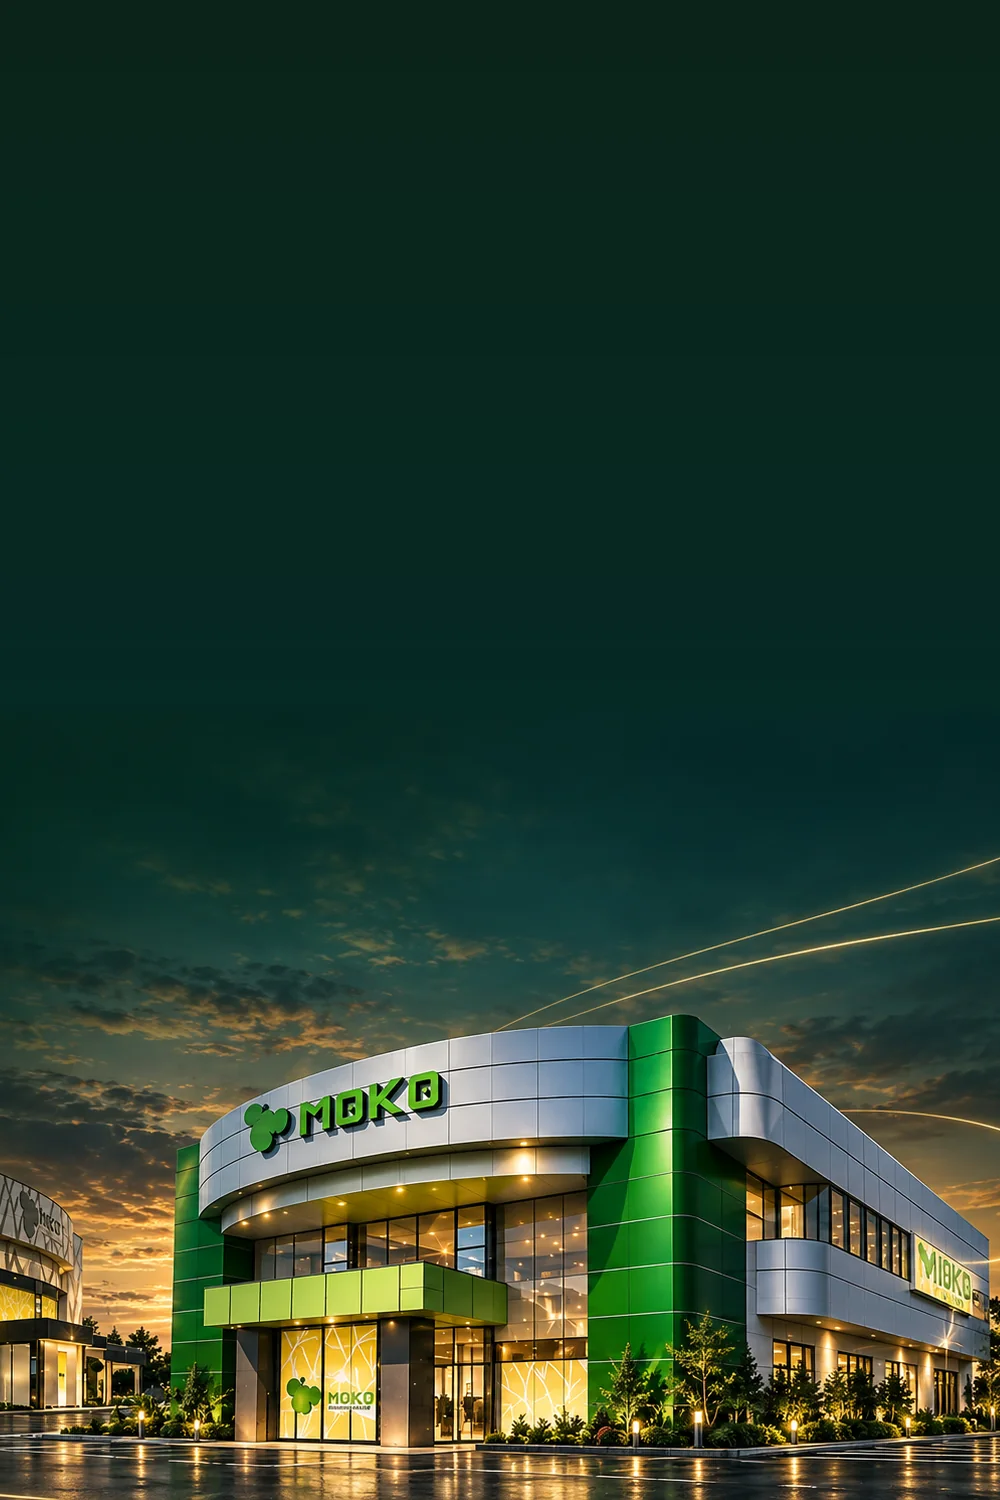
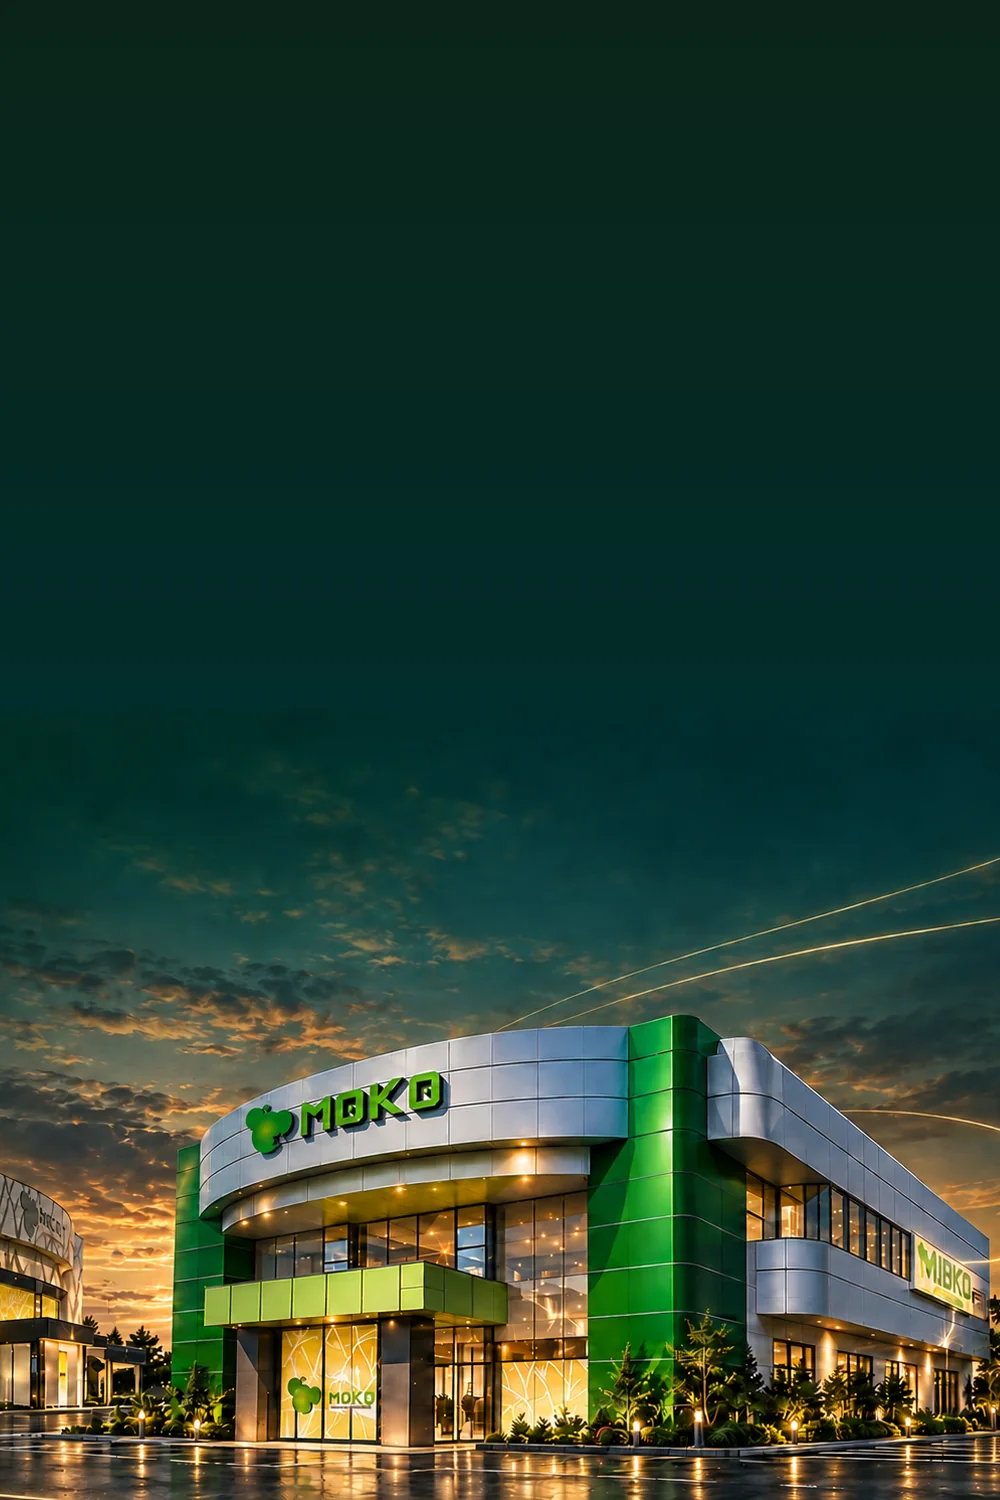
feat: トップのキービジュアルを文字なし版（2店舗の夜景）に変更しHTML見出しを重ねる構成に
- PC: 画像を比率のままヘッダー下に全体表示し、左側の空に PLAY WITH TRUST の見出しを重ねる（薄い暗色グラデーション付き）
- スマホ用の縦長版も同じ画像から再生成
- 不要になった文字入り画像を削除、プリロード先を更新

diff --git a/assets/css/theme.css b/assets/css/theme.css
@@ -471,7 +471,7 @@ body {
 /* ---------- Top hero ---------- */
 
 .hero {
-    /* 2026-09: 文字入りキービジュアル（PLAY WITH TRUST）を画像のまま表示。
+    /* 2026-09-25: 文字なしのキービジュアル（2店舗の夜景）に変更。見出しはHTMLで左側の空に重ねる。
        画像比率 1994:789 に合わせ、固定ヘッダーの下に全体を見せる */
     height: auto;
     aspect-ratio: 1994 / 789;
@@ -479,26 +479,14 @@ body {
     max-height: 780px;
     margin-top: var(--header-height);
     justify-content: flex-start;
+    align-items: flex-start;
     text-align: left;
     background:
-        url('/assets/img/hero-play-with-trust.webp') left center / cover no-repeat,
+        linear-gradient(100deg, rgba(11, 36, 24, 0.6) 0%, rgba(11, 36, 24, 0.3) 35%, rgba(11, 36, 24, 0) 60%),
+        url('/assets/img/hero-moko-stores.webp') left center / cover no-repeat,
         var(--emerald-deep);
-    padding: 0;
-}
-
-/* デスクトップは画像に文字が入っているため、見出しは読み上げ・SEO用に視覚的に非表示 */
-@media (min-width: 769px) {
-    .hero-content {
-        position: absolute;
-        width: 1px;
-        height: 1px;
-        margin: -1px;
-        padding: 0;
-        overflow: hidden;
-        clip: rect(0 0 0 0);
-        clip-path: inset(50%);
-        white-space: nowrap;
-    }
+    padding: 70px 30px 0;
+    padding-left: max(30px, calc((100% - 1280px) / 2 + 30px));
 }
 
 .hero::before,

diff --git a/index.html b/index.html
@@ -16,7 +16,7 @@
     <link rel="stylesheet" href="/assets/css/style.css">
     <link rel="stylesheet" href="/assets/css/pages.css">
     <link rel="stylesheet" href="/assets/css/theme.css">
-    <link rel="preload" as="image" href="/assets/img/hero-play-with-trust.webp" fetchpriority="high">
+    <link rel="preload" as="image" href="/assets/img/hero-moko-stores.webp" fetchpriority="high">
     <link rel="icon" href="/favicon.ico" sizes="48x48">
     <link rel="icon" type="image/png" href="/assets/img/favicon-96.png" sizes="96x96">
     <link rel="icon" type="image/png" href="/assets/img/favicon-192.png" sizes="192x192">
